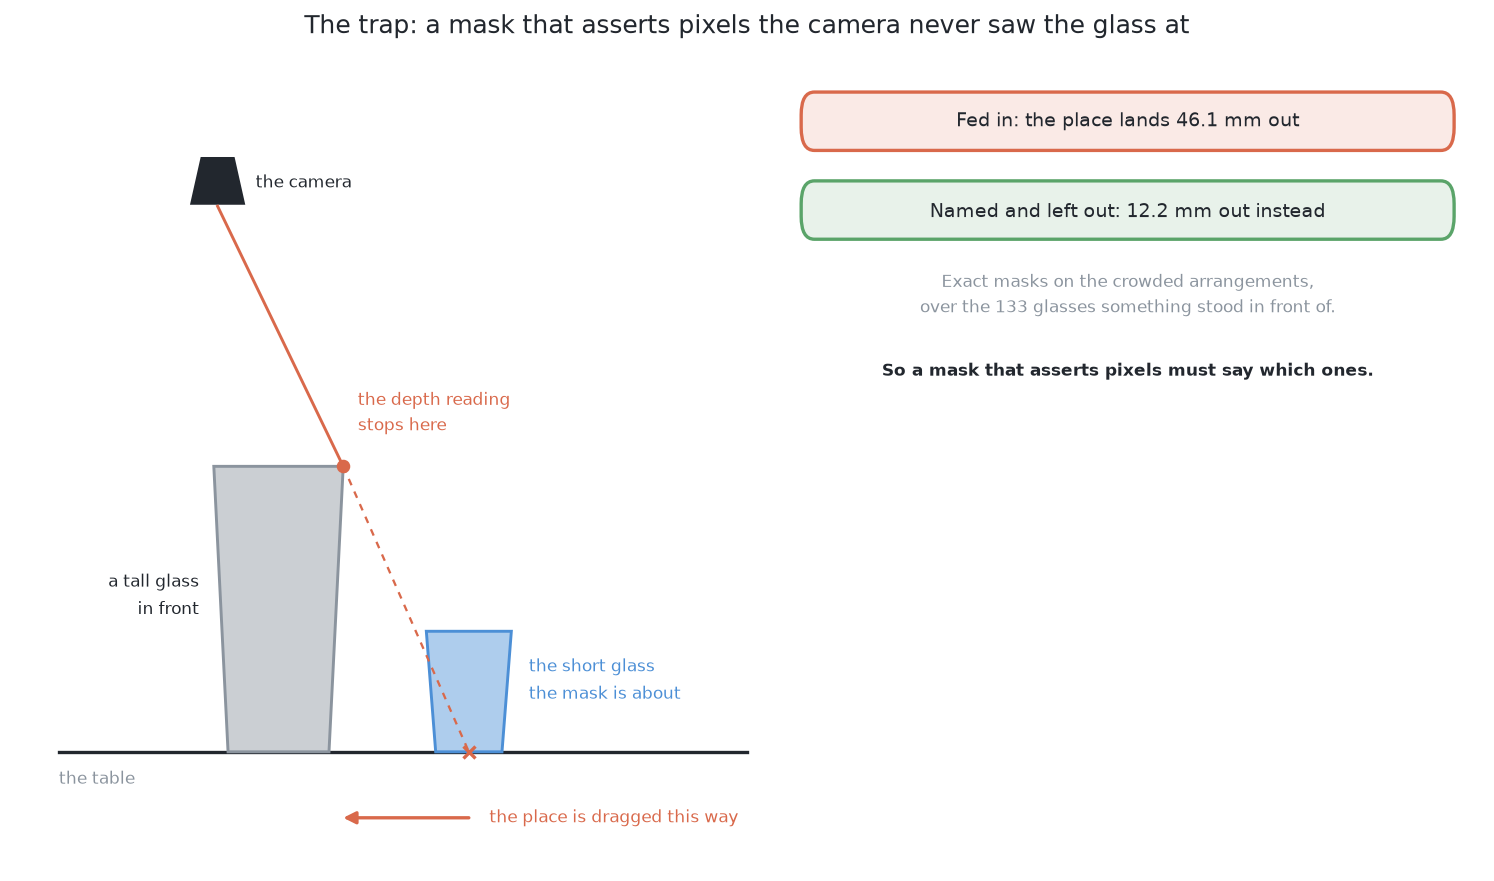
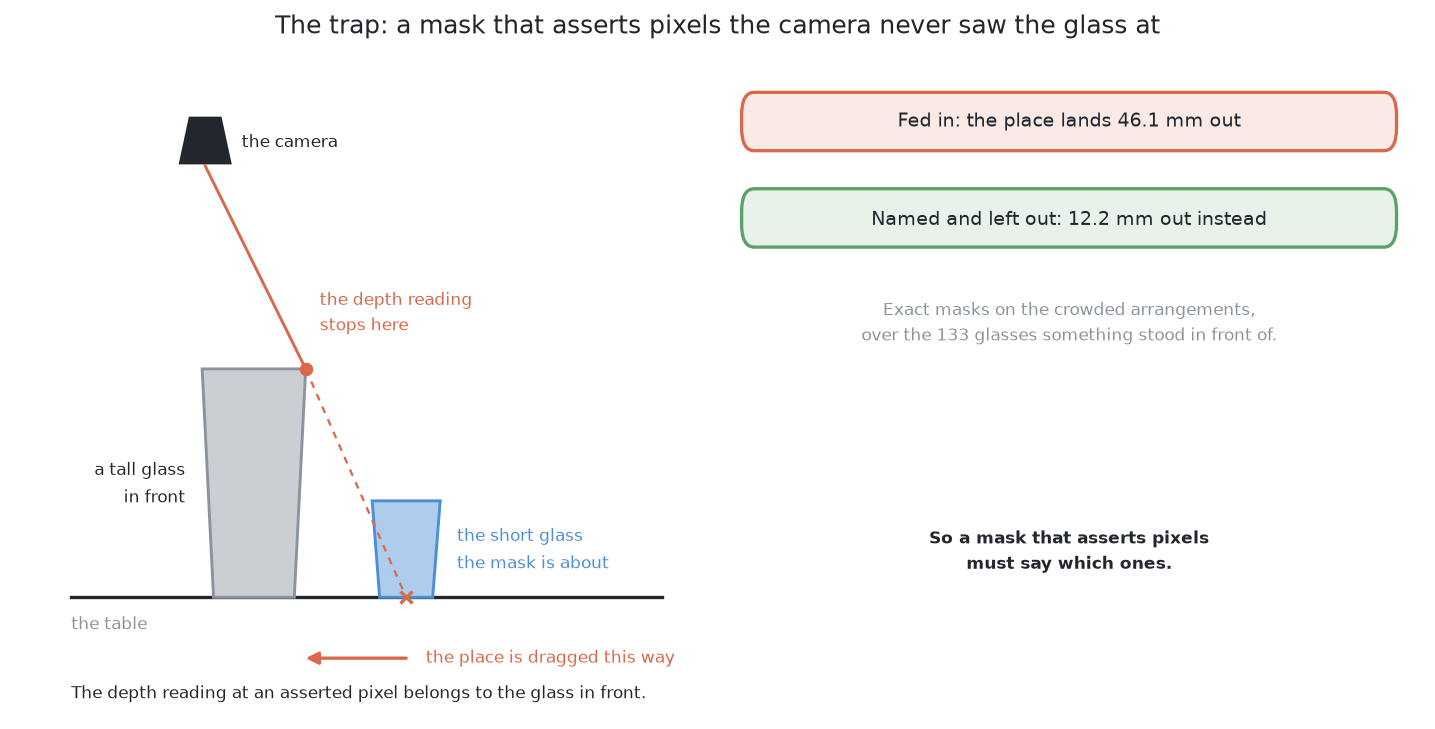
Give the examiner's four pictures room, and the band name two lines
The band around the solution's one box was a single line tall, so its rotated
name ran out of both ends of it. The name is on two lines now and the band has
a little more padding. The two side-by-side charts were cramped against the
figure edge, and the trap sketch carried its numbers too close to the sketch,
so both were given more space. Every drawn number was checked again against
results-floor.json and results-floor-crowded.json.

diff --git a/docs/diagrams/seeing-the-glasses/make_examiner_flows.py b/docs/diagrams/seeing-the-glasses/make_examiner_flows.py
@@ -1,10 +1,12 @@
-"""The four flow charts and sketches for the test bench document.
+"""The four flow charts and sketches for the examiner chapter.
 
-The document beside these pictures argues one thing above all: the examiner owns
-every step of a run except one, and the one step it does not own is the mask. A
-reader who believes that can read a difference between two scorecards as a
-difference between two masks, and a reader who does not cannot read the results
-at all. These pictures are drawn to make that argument visible.
+The first two belong to the document that introduces the examiner, and the last
+two to the document that works through the marking. Together they argue one
+thing above all: the examiner owns every step of a run except one, and the one
+step it does not own is the mask. A reader who believes that can read a
+difference between two scorecards as a difference between two masks, and a
+reader who does not cannot read the results at all. These pictures are drawn to
+make that argument visible.
 
     03-what-the-examiner-does.png    the whole run as one chain, in three bands,
                                      with the single box a solution owns picked
@@ -380,7 +382,7 @@ def what_the_examiner_does() -> None:
     a difference between two sets of masks.
     """
     figure, axis, _ = _figure(9.6, 37.0)
-    flow = Chain(axis, 35.5, 54.0, 68.0, chain_x=27.0)
+    flow = Chain(axis, 35.5, 55.0, 72.0, chain_x=27.0)
 
     flow.box("Draws an arrangement: four to six glasses of one kind")
     flow.box(
@@ -416,11 +418,11 @@ def what_the_examiner_does() -> None:
     ends = flow.extents
     for first, last, colour, label in (
         (0, 1, MUTED, "the examiner"),
-        (2, 2, GLASS, "the solution"),
+        (2, 2, GLASS, "the\nsolution"),
         (3, 6, MUTED, "the examiner again"),
     ):
-        top = ends[first][0] + 0.7
-        bottom = ends[last][1] - 0.7
+        top = ends[first][0] + 0.9
+        bottom = ends[last][1] - 0.9
         _band(axis, 5.0, bottom, 92.0, top - bottom, colour, label)
 
     _note(
@@ -451,7 +453,7 @@ def what_must_come_back() -> None:
     """
     figure, axis, _ = _figure(10.0, 32.0)
 
-    top = 29.5
+    top = 30.5
     wide = 44.0
     left = Chain(axis, top, 26.0, wide)
     right = Chain(axis, top, 74.0, wide)
@@ -464,9 +466,9 @@ def what_must_come_back() -> None:
              edge=GLASS, face=_tint(GLASS, 0.72), lw=1.6, gap=1.0)
     left.note("The solution supplies these two, and only these two.",
               colour=GLASS, weight="bold", gap=1.0)
-    left.arrow(colour=GLASS)
+    left.arrow(2.0, colour=GLASS)
     left.box("the examiner's shared arithmetic, run on the mask")
-    left.arrow()
+    left.arrow(2.0)
     left.box("the place on the table", face=_tint(MUTED, 0.86), edge=MUTED,
              size=LABEL_SIZE, gap=1.0)
     left.box("a rough width of the footprint", face=_tint(MUTED, 0.86), edge=MUTED,
@@ -481,7 +483,7 @@ def what_must_come_back() -> None:
               edge=WARN, face=_tint(WARN, 0.86), size=LABEL_SIZE, lw=1.6, gap=1.0)
     right.note("Neither statement is a list of glasses.", colour=WARN, weight="bold",
                gap=1.0)
-    right.arrow(colour=WARN)
+    right.arrow(2.0, colour=WARN)
     right.box("A reported doubt is counted as a reported doubt.",
               edge=GOOD, face=_tint(GOOD, 0.86), lw=1.6, size=LABEL_SIZE)
     right.note("Saying nothing instead is counted as a miss.", colour=INK)
@@ -491,7 +493,7 @@ def what_must_come_back() -> None:
         (GLASS, "a field the solution supplies"),
         (MUTED, "a field the examiner computes from the mask"),
     )):
-        y = right.y - 1.0 - row * 2.2
+        y = 9.0 - row * 2.2
         axis.add_patch(
             Rectangle(
                 (56.0, y - 0.6), 2.6, 1.2,
@@ -518,10 +520,10 @@ def the_floor() -> None:
     through identical arithmetic. What comes out on the right is the best the
     step can do from a mask that is exactly right.
     """
-    figure, axis, _ = _figure(9.8, 20.0)
+    figure, axis, _ = _figure(9.8, 19.0)
 
     left, right, wide = 27.0, 73.0, 44.0
-    top = 18.0
+    top = 17.5
 
     one = Chain(axis, top, left, wide)
     two = Chain(axis, top, right, wide)
@@ -572,31 +574,33 @@ def the_asserted_pixel_trap() -> None:
     above the table, the two glasses are the tall and the short end of the one
     kind, and they stand the closest apart the arrangements allow. The line of
     sight to the asserted pixel therefore really does stop on the tall glass's
-    rim, which is the whole of the argument.
+    rim, which is the whole of the argument, and the two numbers beside it are
+    what falling into the trap costs.
     """
-    units = 32.0
-    figure, axis, aspect = _figure(10.0, units)
+    units = 26.0
+    figure, axis, aspect = _figure(9.6, units)
 
-    k = 0.05                        # units of height per millimetre
+    k = 0.04                        # units of height per millimetre
+
     def dy(mm: float) -> float:
         return mm * k
 
     def dx(mm: float) -> float:
         return mm * k / aspect
 
-    table_y = 4.5
-    tall_x = 18.0
+    table_y = 4.6
+    tall_x = 17.0
     tall_half = dx(TALL_RIM_MM / 2.0)
     short_x = tall_x + dx(SEPARATION_MM)
     short_half = dx(SHORT_RIM_MM / 2.0)
     tall_top = table_y + dy(TALL_MM)
     camera_y = table_y + dy(SURVEY_MM)
-    # The camera sits where the ray grazing the tall rim lands on the short
-    # glass's middle, which is what the drawing is about.
+    # The camera stands where the ray grazing the tall rim lands on the middle of
+    # the short glass, which is the one line of sight the picture is about.
     camera_x = 2.0 * (tall_x + tall_half) - short_x
 
-    axis.plot([3, 50], [table_y, table_y], color=INK, lw=1.6, zorder=2)
-    _note(axis, 3.0, table_y - 1.0, "the table", colour=MUTED, size=NOTE_SIZE - 0.4)
+    axis.plot([4, 46], [table_y, table_y], color=INK, lw=1.6, zorder=2)
+    _note(axis, 4.0, table_y - 1.0, "the table", colour=MUTED)
 
     axis.add_patch(
         Polygon(
@@ -619,9 +623,9 @@ def the_asserted_pixel_trap() -> None:
 
     tumbler(tall_x, tall_top, tall_half, MUTED)
     tumbler(short_x, table_y + dy(SHORT_MM), short_half, GLASS)
-    _note(axis, tall_x - tall_half - 1.0, table_y + dy(TALL_MM) * 0.55,
+    _note(axis, tall_x - tall_half - 1.2, table_y + dy(TALL_MM) * 0.5,
           "a tall glass\nin front", colour=INK, ha="right")
-    _note(axis, short_x + short_half + 1.2, table_y + dy(SHORT_MM) * 0.6,
+    _note(axis, short_x + short_half + 1.2, table_y + dy(SHORT_MM) * 0.5,
           "the short glass\nthe mask is about", colour=GLASS, ha="left")
 
     # The line of sight to an asserted pixel stops on the tall glass's rim, well
@@ -633,27 +637,31 @@ def the_asserted_pixel_trap() -> None:
     axis.plot([rim[0], ground[0]], [rim[1], ground[1]], color=WARN, lw=1.1,
               ls=(0, (3, 3)), zorder=5)
     axis.plot(*rim, marker="o", ms=5.5, color=WARN, zorder=6)
-    _note(axis, rim[0] + 1.0, rim[1] + 1.1, "the depth reading\nstops here",
+    _note(axis, rim[0] + 1.0, rim[1] + 1.2, "the depth reading\nstops here",
           colour=WARN, va="bottom")
     axis.plot(*ground, marker="x", ms=6, mew=1.6, color=WARN, zorder=6)
 
-    _arrow(axis, (ground[0], table_y - 2.6), (rim[0], table_y - 2.6), colour=WARN, lw=1.6)
-    _note(axis, ground[0] + 1.4, table_y - 2.6, "the place is dragged this way",
+    _arrow(axis, (ground[0], table_y - 2.4), (rim[0], table_y - 2.4), colour=WARN, lw=1.6)
+    _note(axis, ground[0] + 1.4, table_y - 2.4, "the place is dragged this way",
           colour=WARN)
 
     # ---- the measured cost, beside the sketch
-    side = Chain(axis, units - 1.5, 76.0, 44.0)
+    side = Chain(axis, units - 1.5, 75.0, 46.0)
     side.box(f"Fed in: the place lands {FED_IN_MM} mm out",
-             edge=WARN, face=_tint(WARN, 0.86), size=LABEL_SIZE, lw=1.6, gap=1.2)
+             edge=WARN, face=_tint(WARN, 0.86), size=LABEL_SIZE, lw=1.6, gap=1.5)
     side.box(f"Named and left out: {NAMED_MM} mm out instead",
-             edge=GOOD, face=_tint(GOOD, 0.86), size=LABEL_SIZE, lw=1.6, gap=1.2)
+             edge=GOOD, face=_tint(GOOD, 0.86), size=LABEL_SIZE, lw=1.6, gap=2.0)
     side.note(
         "Exact masks on the crowded arrangements,\n"
         f"over the {HIDDEN_GLASSES} glasses something stood in front of.",
-        colour=MUTED,
+        colour=MUTED, gap=7.0,
     )
-    side.note("So a mask that asserts pixels must say which ones.",
+    side.note("So a mask that asserts pixels\nmust say which ones.",
               colour=INK, weight="bold")
+
+    _note(axis, 4.0, 0.8,
+          "The depth reading at an asserted pixel belongs to the glass in front.",
+          colour=INK)
 
     _title(axis, "The trap: a mask that asserts pixels the camera never saw the glass at")
     _audit(figure, "03-the-asserted-pixel-trap.png")
